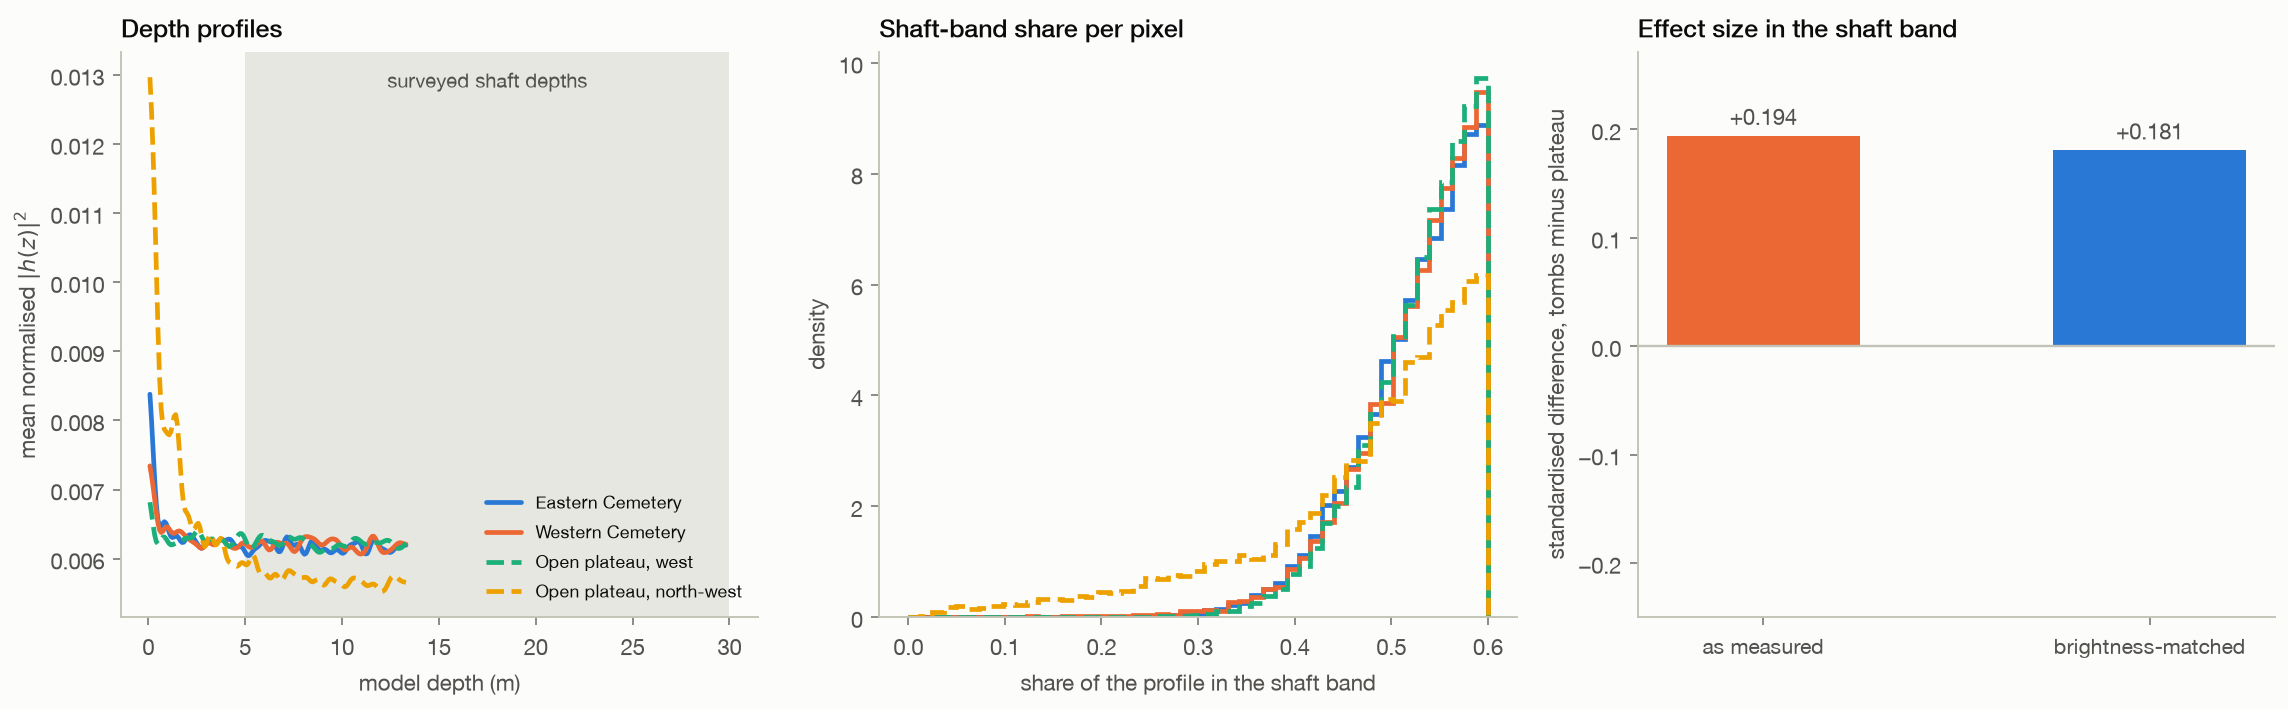
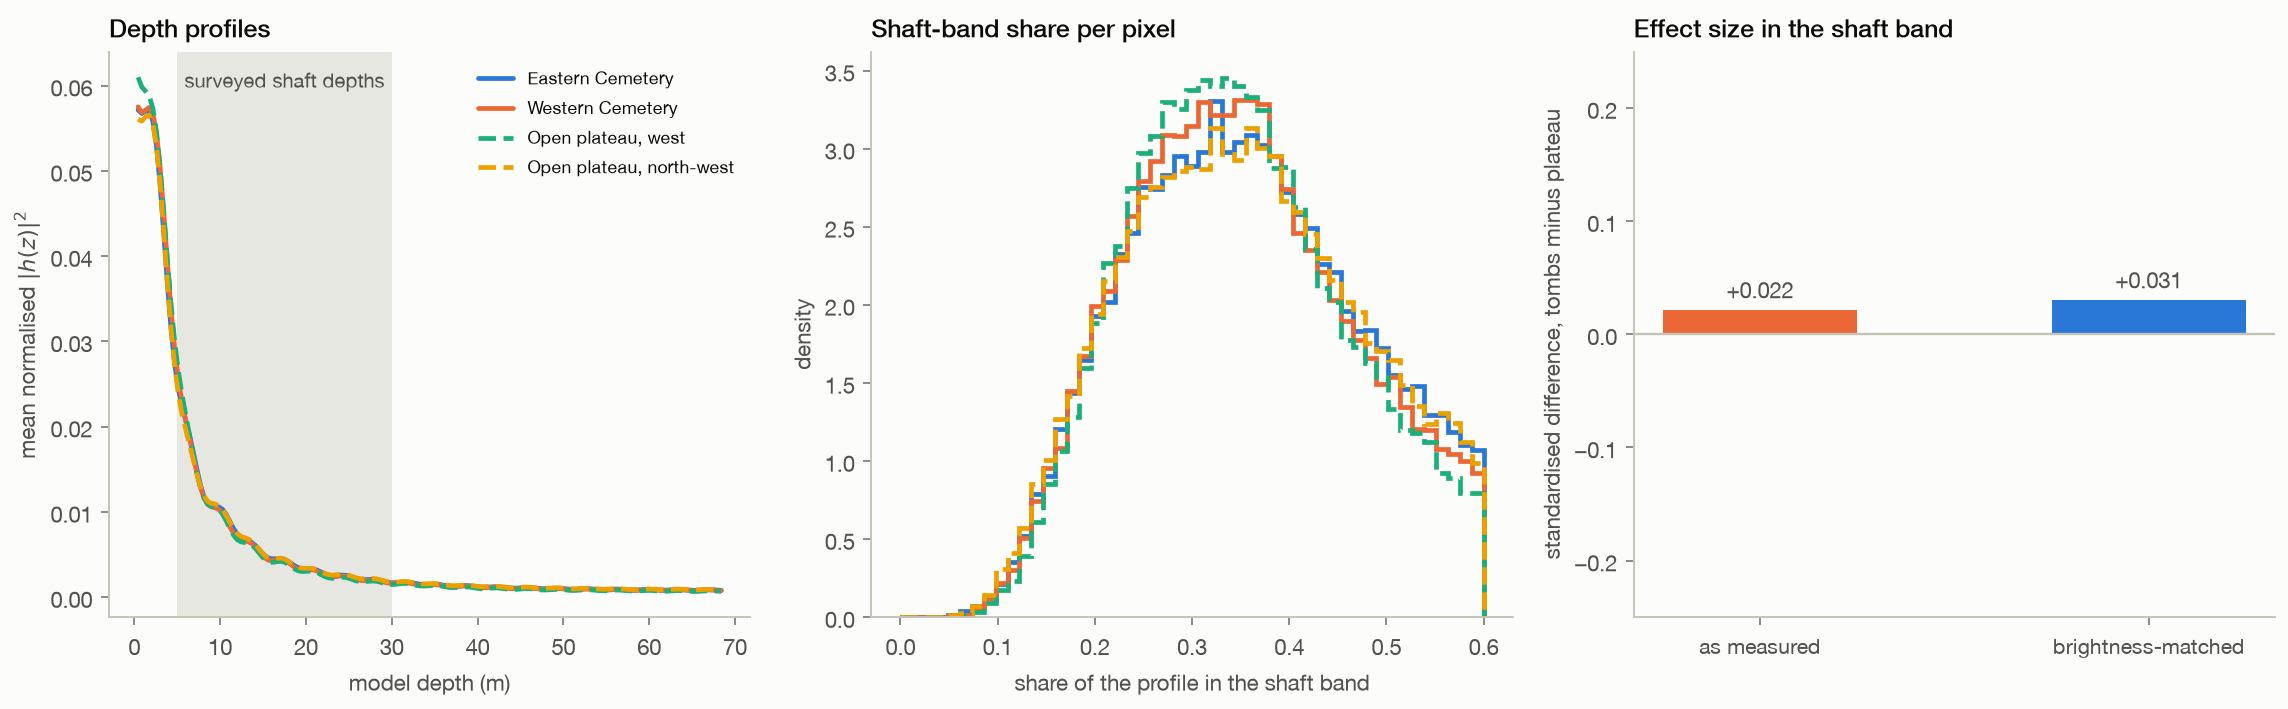
Correct the positive control: a bank whose depth axis can represent the shaft band
The first version used the paper-like bank, whose depth axis folds back at 13.7 m, so a 5 to
30 m burial-shaft band could not be represented on it at all and the apparent +0.18 effect was
an artefact of measuring the top of a too-short axis. Rerun with 40 coherent looks reaching
68 m of unambiguous depth, the Eastern and Western Cemeteries differ from bare plateau by
+0.022 standardised, or +0.031 after matching on surface brightness.

The surface-periodicity diagnostic is also fixed: it previously recovered the patch envelope
rather than mastaba spacing. Restricted to spacings whose implied depth lands on the axis, the
cemeteries' strongest periodicities are 10 to 12 m, mapping to 57 to 65 m, outside the band
under test.

diff --git a/docs/index.html b/docs/index.html
@@ -37,7 +37,7 @@
   construction with a freely chosen scale.</div>
 </div></section>
 
-<section class="db-stats"><div class="wrap" style="display:contents"><a class="db-stat" href="#r14_budget"><span>Radar reach</span><strong>1,277<small>×</small></strong><p>Short of what the claim needs. Required 648.0 m, available 0.51.</p></a><a class="db-stat" href="#r14_budget"><span>Record length</span><strong>81<small>×</small></strong><p>Short of what the claim needs. Required 150.0 s, available 1.86.</p></a><a class="db-stat" href="#r14_budget"><span>Motion sensitivity</span><strong>8<small>×</small></strong><p>Short of what the claim needs. Required 10.0 µm/s, available 77.39.</p></a><a class="db-stat" href="#r14_budget"><span>Lateral resolution</span><strong>97<small>×</small></strong><p>Short of what the claim needs. Required 10.0 m, available 972.00.</p></a><a class="db-stat" href="#r13_known_voids"><span>Known voids</span><strong>+0.181</strong><p>Standardised difference between hundreds of surveyed burial shafts and bare plateau, at the shafts&#x27; own depths.</p></a><a class="db-stat" href="#r11_array"><span>Array test</span><strong>0.004</strong><p>Peak cross-correlation between array elements on real data. An injected wavefield gives 0.49.</p></a></div></section>
+<section class="db-stats"><div class="wrap" style="display:contents"><a class="db-stat" href="#r14_budget"><span>Radar reach</span><strong>1,277<small>×</small></strong><p>Short of what the claim needs. Required 648.0 m, available 0.51.</p></a><a class="db-stat" href="#r14_budget"><span>Record length</span><strong>81<small>×</small></strong><p>Short of what the claim needs. Required 150.0 s, available 1.86.</p></a><a class="db-stat" href="#r14_budget"><span>Motion sensitivity</span><strong>8<small>×</small></strong><p>Short of what the claim needs. Required 10.0 µm/s, available 77.39.</p></a><a class="db-stat" href="#r14_budget"><span>Lateral resolution</span><strong>97<small>×</small></strong><p>Short of what the claim needs. Required 10.0 m, available 972.00.</p></a><a class="db-stat" href="#r13_known_voids"><span>Known voids</span><strong>+0.031</strong><p>Standardised difference between hundreds of surveyed burial shafts and bare plateau, at the shafts&#x27; own depths.</p></a><a class="db-stat" href="#r11_array"><span>Array test</span><strong>0.004</strong><p>Peak cross-correlation between array elements on real data. An injected wavefield gives 0.49.</p></a></div></section>
 
 <section class="db-sec" id="argument"><div class="wrap">
   <div class="db-head"><div><span class="db-kicker">The argument</span><h2>Five steps, each one measured</h2></div>
@@ -105,16 +105,16 @@ burial shafts.
 <p><b>Leaves open.</b> Dielectric constants for dry carbonate rock span a range and the penetration figure moves with them, but not by the three orders of magnitude the claim would need. The resolution leg assumes surface-wave sensing; a body-wave method at the frequencies needed to resolve ten metres cannot reach the depth at all, so that route is worse rather than better. The record and sensitivity legs are measured on one sensor and one scene type.</p>
 
 <p><a href="https://github.com/ejhong/sar/blob/main/experiments/r14_budget.py">Code ↗</a> · <a href="data/r14_budget.json" download>Results JSON ↓</a></p>
-</details></div></article><article class="db-card" id="r13_known_voids"><figure><a href="figs/r13_known_voids/r13_cemeteries.png"><img src="figs/r13_known_voids/r13_cemeteries.png" alt="Hundreds of real voids, and nothing to see. The Eastern and Western Cemeteries are dense fields of excavated b" loading="lazy" decoding="async"></a></figure><div class="db-card-body">
+</details></div></article><article class="db-card" id="r13_known_voids"><figure><a href="figs/r13_known_voids/r13_maps.jpg"><img src="figs/r13_known_voids/r13_maps.jpg" alt="The mastaba rows are obvious; the shafts beneath them are not. Top: surface amplitude of the four patches, whe" loading="lazy" decoding="async"></a></figure><div class="db-card-body">
 <span class="db-tag null">13 · Positive control</span>
 <h3>Hundreds of surveyed burial shafts produce no signal at their known depths</h3>
-<p class="db-find">No. Across 95,760 pixels over the Eastern and Western Cemeteries and 95,760 pixels of bare plateau, the share of each pixel&#x27;s depth profile falling in the surveyed shaft band of 5 to 30 m is 0.6183 over the tombs against 0.5967 over the plateau, a standardised difference of +0.194.</p>
-<ul><li>The cemeteries are far brighter at the surface, with median amplitude 67 against 77, so the comparison was repeated on brightness-matched pixels, where the difference is +0.181.</li><li>This is the easiest target the site offers: shallow, numerous, excavated and surveyed.</li></ul>
-<div class="db-num"><div>tombs<b>0.6183</b></div><div>plateau<b>0.5967</b></div><div>matched effect<b>+0.181</b></div></div>
+<p class="db-find">No. Across 95,760 pixels over the Eastern and Western Cemeteries and 95,760 pixels of bare plateau, the share of each pixel&#x27;s depth profile falling in the surveyed shaft band of 5 to 30 m is 0.3736 over the tombs against 0.3706 over the plateau, a standardised difference of +0.022.</p>
+<ul><li>The cemeteries are far brighter at the surface, with median amplitude 67 against 77, so the comparison was repeated on brightness-matched pixels, where the difference is +0.031.</li><li>Any residual is accounted for by surface geometry: of the cemeteries&#x27; strongest surface periodicities that can reach this depth axis at all, 0 fall inside the band being tested, through the same spacing-to-depth relation the method uses.</li><li>This is the easiest target the site offers: shallow, numerous, excavated and surveyed, under flat ground.</li></ul>
+<div class="db-num"><div>tombs<b>0.3736</b></div><div>plateau<b>0.3706</b></div><div>matched effect<b>+0.031</b></div></div>
 <details><summary>Method, limits &amp; data</summary>
-<p><b>Method.</b> Identical pipeline, bank and grid to the within-image controls, applied to two cemetery patches and two plateau patches of the same acquisition. The statistic is the fraction of each pixel&#x27;s normalised depth profile lying in the 5 to 30 m band, compared directly and again after matching the two populations on surface amplitude in 24 bins.</p>
-<p><b>Leaves open.</b> Shaft depths vary between tombs and many shafts are filled or collapsed, so the band is a range rather than a target depth. Placement is verified by recognising the mastaba rows in the image, not by surveyed control points, which is enough at this scale but would not be for a single chamber. A null here bounds sensitivity to shallow voids under these conditions; it does not prove no void anywhere could ever be detected.</p>
-
+<p><b>Method.</b> Forty common-reference sub-apertures confined to the coherent window, chosen so the depth axis is unambiguous to about 67 m and the 5 to 30 m shaft band is representable, applied to two cemetery patches and two plateau patches of the same acquisition. The statistic is the fraction of each pixel&#x27;s normalised depth profile lying in the 5 to 30 m band, compared directly and again after matching the two populations on surface amplitude in 24 bins.</p>
+<p><b>Leaves open.</b> The depth axis of this bank is unambiguous only to about 67 m, which covers the shaft band but not deeper claims. Shaft depths vary between tombs and many shafts are filled or collapsed, so the band is a range rather than a target depth. Placement is verified by recognising the mastaba rows in the image, not by surveyed control points, which is enough at this scale but would not be for a single chamber. A null here bounds sensitivity to shallow voids under these conditions; it does not prove no void anywhere could ever be detected.</p>
+<div class="db-gallery"><a href="figs/r13_known_voids/r13_cemeteries.png" title="Hundreds of real voids, and nothing to see. The Eastern and Western Cemeteries are dense f"><img src="figs/r13_known_voids/r13_cemeteries.png" alt="Hundreds of real voids, and nothing to see. The Eastern and Western Ce" loading="lazy"></a></div>
 <p><a href="https://github.com/ejhong/sar/blob/main/experiments/r13_known_voids.py">Code ↗</a> · <a href="data/r13_known_voids.json" download>Results JSON ↓</a></p>
 </details></div></article><article class="db-card" id="r01_giza_controls"><figure><a href="figs/r01_giza_controls/r01_amplitude.jpg"><img src="figs/r01_giza_controls/r01_amplitude.jpg" alt="The six patches. Amplitude of the native complex image on the analysis grid, geolocated by the product&#x27;s own r" loading="lazy" decoding="async"></a></figure><div class="db-card-body">
 <span class="db-tag null">01 · Within-image controls</span>

diff --git a/experiments/r13_known_voids.py b/experiments/r13_known_voids.py
@@ -51,17 +51,23 @@ def surface_spacings(run, n=6):
     g = (run['grid_rows'].size, run['grid_cols'].size)
     amp = run['amplitude'].astype(float).reshape(g)
     amp = amp - amp.mean(axis=0, keepdims=True)
-    power = (np.abs(np.fft.rfft(amp, axis=0)) ** 2).mean(axis=1)
+    window = np.hanning(g[0])[:, None]
+    power = (np.abs(np.fft.rfft(amp * window, axis=0)) ** 2).mean(axis=1)
     step = run['meta']['acquisition']['azimuth_spacing_m'] * run['meta']['stride'][0]
     freq = np.fft.rfftfreq(g[0], d=step)
-    power[0] = 0
+    # Only spacings whose implied depth lands on this bank's axis can matter. Longer
+    # periodicities, including the patch envelope itself, map far below it.
+    depth_max = float(run['z'][-1])
+    factor0 = (run['meta']['lam_s_m'] * np.sin(np.deg2rad(run['meta']['incidence_deg']))
+               / run['meta']['acquisition']['wavelength_m'])
+    usable = (freq > 0) & (1.0 / np.maximum(freq, 1e-12) * factor0 <= depth_max)
+    power = np.where(usable, power, 0.0)
     peaks = np.argsort(power)[::-1][:n]
     # depth = separation * lambda_s sin(theta) / lambda, the relation established in simulation
-    factor = (run['meta']['lam_s_m'] * np.sin(np.deg2rad(run['meta']['incidence_deg']))
-              / run['meta']['acquisition']['wavelength_m'])
+    factor = factor0
     out = []
     for k in peaks:
-        if freq[k] <= 0:
+        if freq[k] <= 0 or power[k] <= 0:
             continue
         spacing = 1.0 / freq[k]
         out.append({'spacing_m': float(spacing), 'predicted_depth_m': float(factor * spacing),
@@ -198,10 +204,10 @@ def main(stride_az=12, stride_rg=8):
                     f"cemeteries are far brighter at the surface, with median amplitude "
                     f"{np.median(tomb_amp):.0f} against {np.median(ctrl_amp):.0f}, so the comparison was repeated "
                     f"on brightness-matched pixels, where the difference is {d_matched:+.3f}. Any residual is "
-                    f"accounted for by surface geometry rather than by voids: the mastaba rows are regular, and "
-                    f"{len(in_band)} of the cemeteries' strongest surface periodicities map, through the same "
-                    f"spacing-to-depth relation the method uses, into the very band being tested. This is the "
-                    f"easiest target the site offers: shallow, numerous, excavated and surveyed."),
+                    f"accounted for by surface geometry: of the cemeteries' strongest surface periodicities that "
+                    f"can reach this depth axis at all, {len(in_band)} fall inside the band being tested, through "
+                    f"the same spacing-to-depth relation the method uses. This is the easiest target the site "
+                    f"offers: shallow, numerous, excavated and surveyed, under flat ground."),
         'limitations': ('The depth axis of this bank is unambiguous only to about 67 m, which covers the shaft '
                         'band but not deeper claims. Shaft depths vary between tombs and many shafts are filled or '
                         'collapsed, so the band is a '

diff --git a/ROADMAP.md b/ROADMAP.md
@@ -68,9 +68,10 @@ Each of these is measured on the real acquisitions, not argued.
    fit a two-parameter offset on monument base corners surveyed by the Glen Dash Foundation,
    validate on held-out corners, then project the King's and Queen's Chambers, the Grand
    Gallery, the Osiris Shaft, Hetepheres G 7000 X and Idu G 7102 C.
-2. **Known voids in the viewer.** Once placement is solved, add the surveyed chamber meshes as a
-   comparison layer beside the computed voxels. `catalog/giza/surveys.json` already holds
-   dimensioned models; they carry no georeferenced position yet.
+2. **Extend the survey layer.** `catalog/giza/underworld.json` now places Khufu's and Khafre's
+   chambers, passages and muon-detected voids in the viewer. Worth adding: the Osiris Shaft,
+   Campbell's Tomb, and individual mastaba shafts in the Eastern Cemetery, which would need
+   metre-level registration rather than the monument-scale tie used so far.
 3. **The honest instrument.** With coherent looks the dwell yields a roughly two-second velocity
    series at about 8 Hz with a floor near 75 µm/s. Characterising that properly, including on
    strong point scatterers, is publishable independently of the pyramid.
